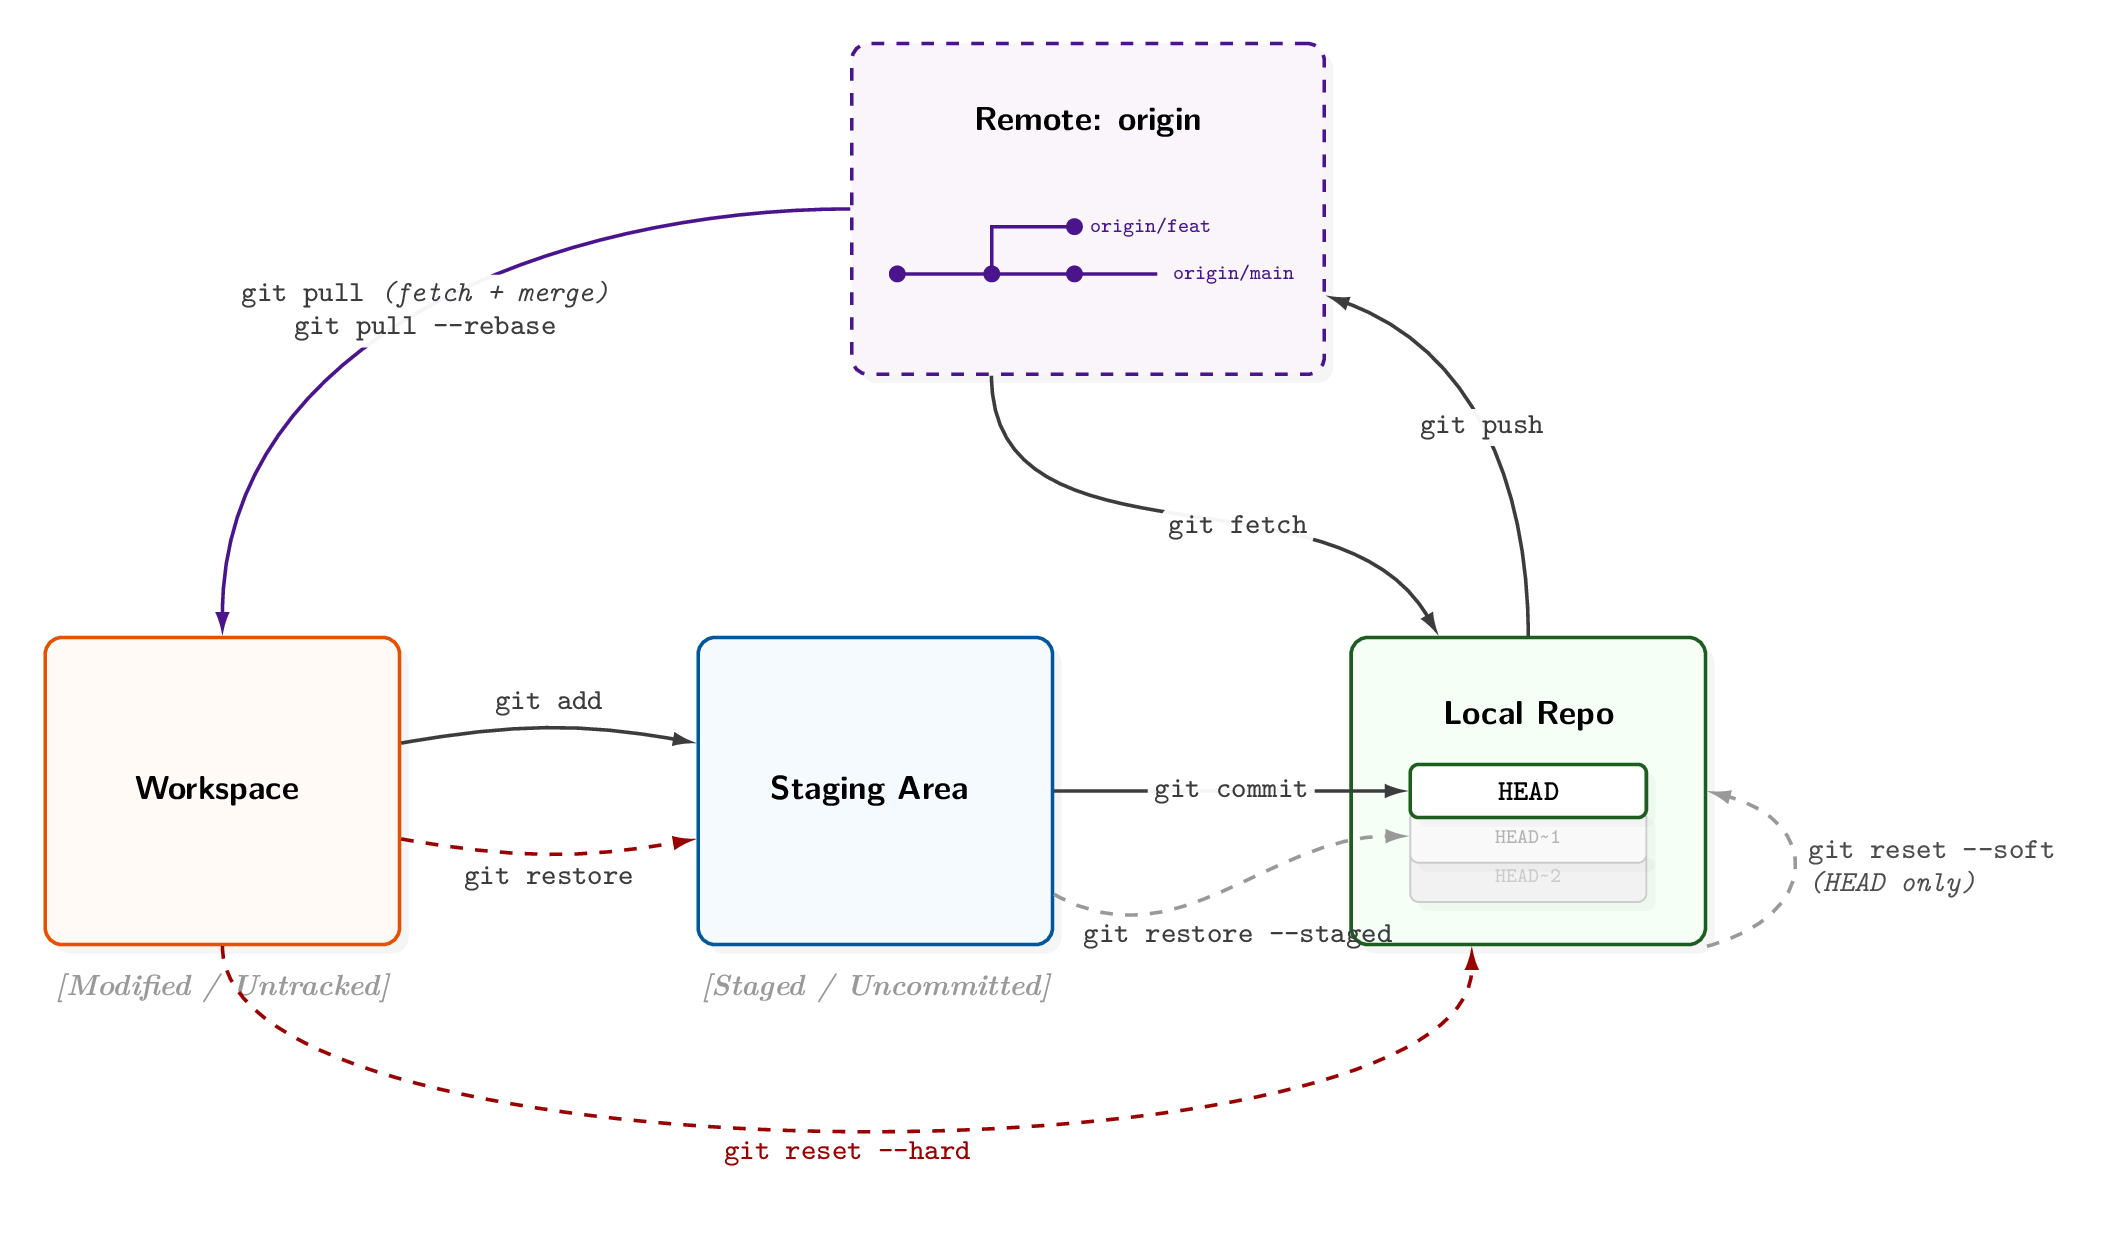
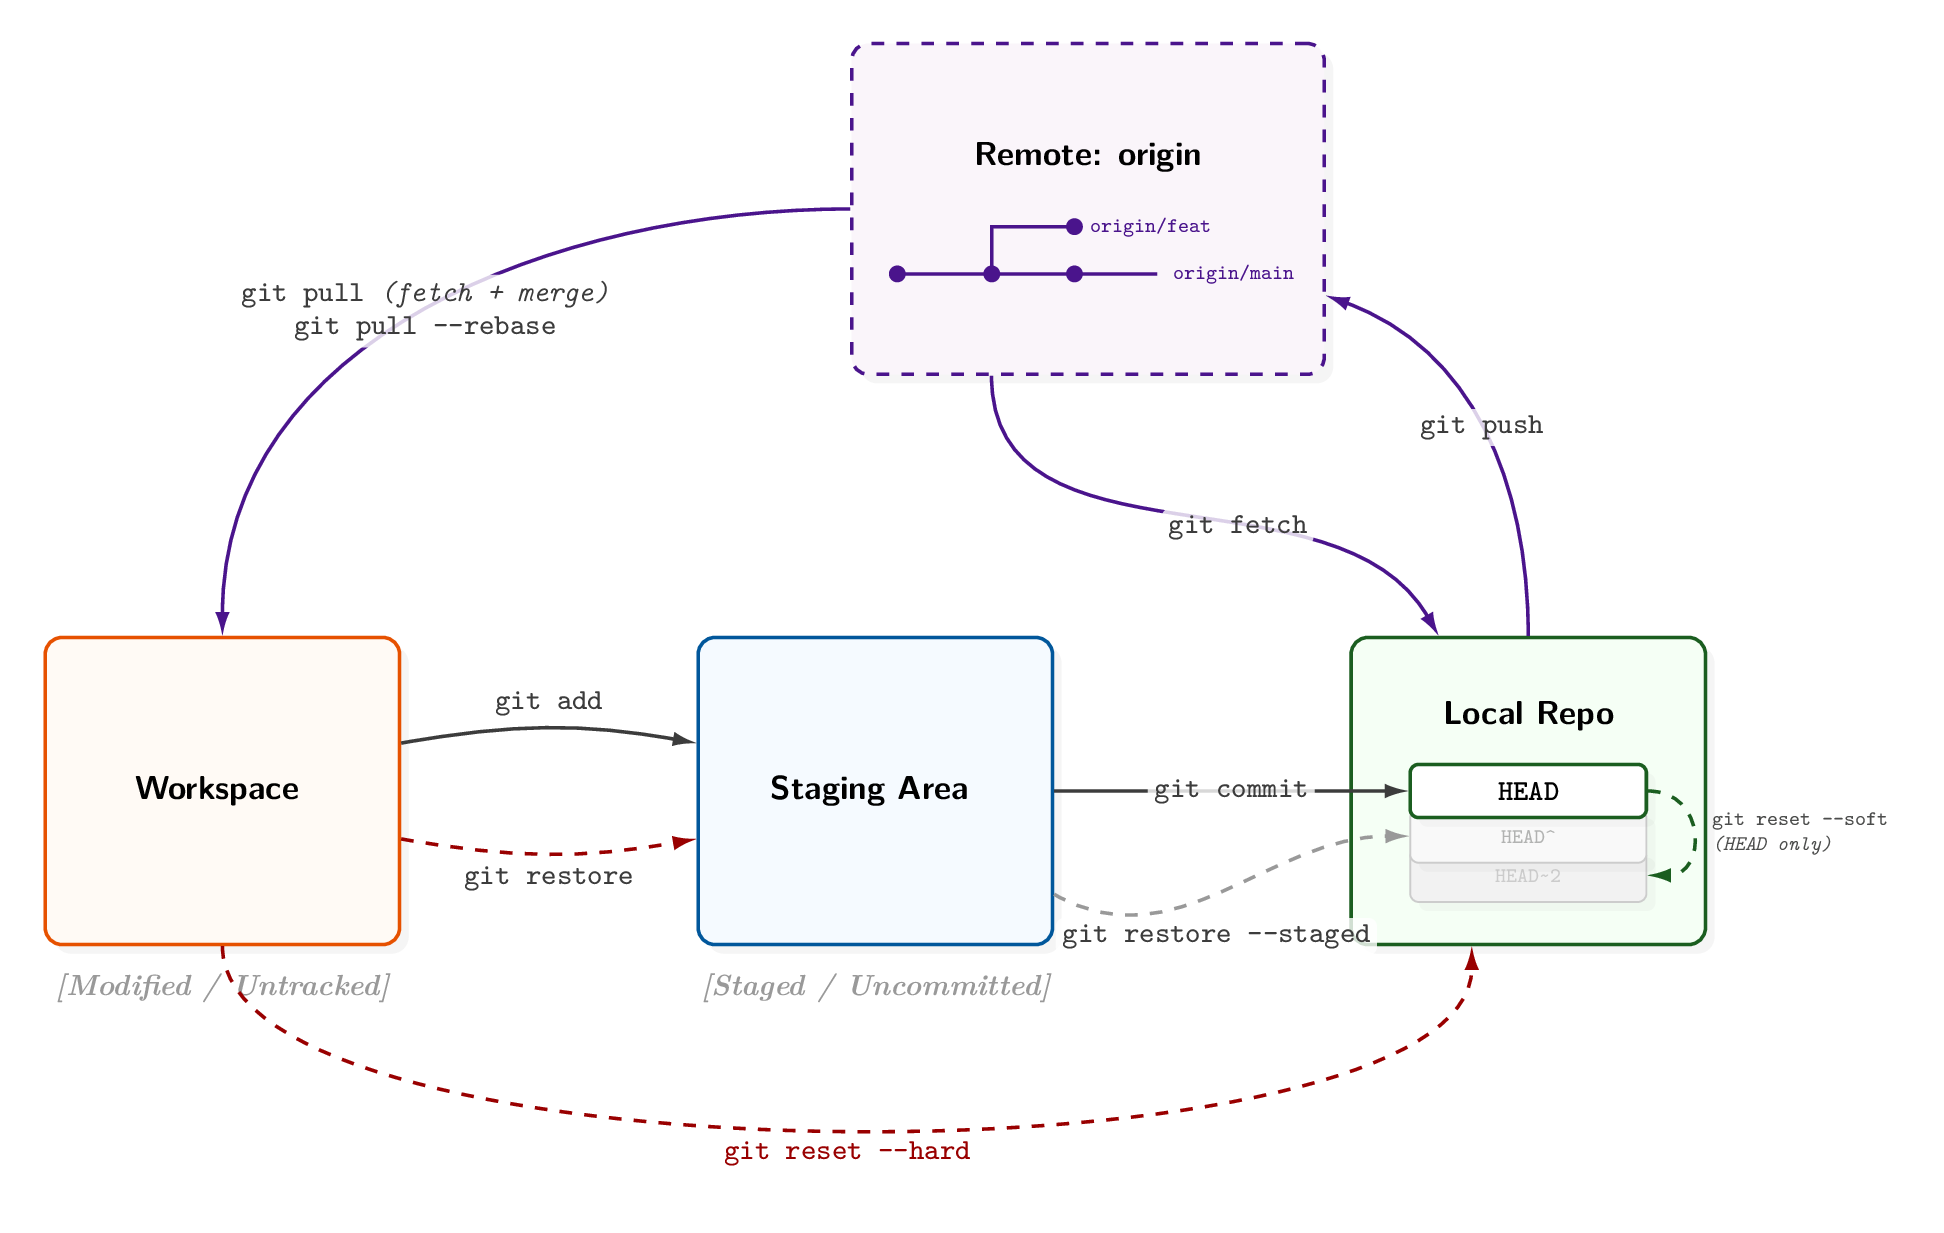
Second Version

diff --git a/github-commands/images/git_flow/git_flow.tex b/github-commands/images/git_flow/git_flow.tex
@@ -44,7 +44,6 @@
         -{Latex[length=2mm, width=1.2mm]},
         font=\scriptsize\sffamily
     },
-    % 虚线样式 (用于 Restore/Reset)
     connDashed/.style={
         conn, dashed, draw=gray!80
     },
@@ -52,126 +51,111 @@
         midway, fill=white, text=lineColor, 
         inner sep=1.5pt, rounded corners=2pt,
         align=center, font=\scriptsize\ttfamily,
-        opacity=0.95, text opacity=1
+        opacity=0.8, text opacity=1
     }
 }
 
 \begin{document}
 \begin{tikzpicture}[node distance=1.2cm and 2.5cm]
 
-    % =========================================
-    % 1. 区域定义
-    % =========================================
+	% =========================================
+	% 1. 区域定义
+	% =========================================
 
-    % Workspace
-    \node [styleWork] (work) {
-        \textbf{Workspace}
-    };
-    \node [statusLabel] at (work.south) {[Modified / Untracked]};
+	% Workspace
+	\node [styleWork] (work) {
+		\textbf{Workspace}
+	};
+	\node [statusLabel] at (work.south) {[Modified / Untracked]};
 
-    % Staging
-    \node [styleStage, right=of work] (stage) {
-        \textbf{Staging Area}
-    };
-    \node [statusLabel] at (stage.south) {[Staged / Uncommitted]};
+	% Staging
+	\node [styleStage, right=of work] (stage) {
+		\textbf{Staging Area}
+	};
+	\node [statusLabel] at (stage.south) {[Staged / Uncommitted]};
 
-    % Local Repo
-    \node [styleLocal, right=of stage] (local) {
-        \textbf{Local Repo}\\
-        \vspace{1.0cm} % Space for stack
-    };
+	% Local Repo
+	\node [styleLocal, right=of stage] (local) {
+		\textbf{Local Repo}\\
+		\vspace{1.0cm}
+	};
 
-    % Remote Repo
-    \node [styleRemote, above=2.2cm of stage, xshift=1.8cm, minimum width=4.0cm, minimum height=2.8cm] (remote) {
-        \textbf{Remote: origin} \\
-        \vspace{1.2cm} % Space for tree
-    };
+	% Remote Repo
+	\node [styleRemote, above=2.2cm of stage, xshift=1.8cm, minimum width=4.0cm, minimum height=2.8cm] (remote) {
+		\textbf{Remote: origin} \\
+		\vspace{0.6cm}
+	};
 
-    % =========================================
-    % 2. 内部结构可视化
-    % =========================================
+	% =========================================
+	% 2. 内部结构可视化
+	% =========================================
 
-    % --- Local Commit Stack ---
-    \node[card, fill=gray!10, text=gray!40] at ($(local.south) + (0, 0.6)$) (c2) {\tiny HEAD\textasciitilde 2};
-    \node[card, fill=gray!5, text=gray!60] at ($(c2.north) + (0, 0.1)$) (c1) {\tiny HEAD\textasciitilde 1};
-    \node[card, draw=cLocalDraw, thick] at ($(c1.north) + (0, 0.15)$) (c0) {\scriptsize \textbf{HEAD}};
+	% --- Local Commit Stack ---
+	\node[card, fill=gray!10, text=gray!40] at ($(local.south) + (0, 0.6)$) (c2) {\tiny HEAD\textasciitilde 2};
 
-    % --- Remote Branch Tree ---
-    \begin{scope}[shift={($(remote.west) + (0.4, -0.55)$)}]
-        % 主干
-        \draw[cRemoteDraw, thick] (0,0) -- (2.2,0) node[right, font=\tiny\ttfamily] {origin/main};
-        % 分支 feat
-        \draw[cRemoteDraw, thick] (0.8,0) -- (0.8,0.4) -- (1.5,0.4) node[right, font=\tiny\ttfamily] {origin/feat};
-        % 节点
-        \fill[cRemoteDraw] (0,0) circle(2pt);
-        \fill[cRemoteDraw] (0.8,0) circle(2pt);
-        \fill[cRemoteDraw] (1.5,0) circle(2pt);
-        \fill[cRemoteDraw] (1.5,0.4) circle(2pt);
-    \end{scope}
+	\node[card, fill=gray!5, text=gray!60] at ($(c2.north) + (0, 0.1)$) (c1) {\tiny HEAD\textasciicircum};
 
-    % =========================================
-    % 3. 核心连线 (Forward: Solid)
-    % =========================================
+	% HEAD
+	\node[card, draw=cLocalDraw, thick] at ($(c1.north) + (0, 0.15)$) (c0) {\scriptsize \textbf{HEAD}};
 
-    % [Add]: Work -> Stage
-    \draw [conn] (work.15) to[out=10, in=170]
-        node[cmdLabel, above=1pt] {git add}
-        (stage.165);
+	% --- Remote Branch Tree ---
+	\begin{scope}[shift={($(remote.west) + (0.4, -0.55)$)}]
+		\draw[cRemoteDraw, thick] (0,0) -- (2.2,0) node[right, font=\tiny\ttfamily] {origin/main};
+		\draw[cRemoteDraw, thick] (0.8,0) -- (0.8,0.4) -- (1.5,0.4) node[right, font=\tiny\ttfamily] {origin/feat};
+		\fill[cRemoteDraw] (0,0) circle(2pt);
+		\fill[cRemoteDraw] (0.8,0) circle(2pt);
+		\fill[cRemoteDraw] (1.5,0) circle(2pt);
+		\fill[cRemoteDraw] (1.5,0.4) circle(2pt);
+	\end{scope}
 
-    % [Commit]: Stage -> Local
-    \draw [conn] (stage.east) to[out=0, in=180]
-        node[cmdLabel, fill=white] {git commit}
-        (c0.west);
+	% =========================================
+	% 3. 核心连线
+	% =========================================
 
-    % [Push]: Local -> Remote
-    \draw [conn] (local.north) to[out=90, in=340]
-        node[cmdLabel, pos=0.5] {git push}
-        (remote.340);
+	% [Add]
+	\draw [conn] (work.15) to[out=10, in=170] node[cmdLabel, above=1pt] {git add} (stage.165);
 
-    % =========================================
-    % 4. 撤销/回退连线 (Backward: Dashed)
-    % =========================================
+	% [Commit]
+	\draw [conn] (stage.east) to[out=0, in=180] node[cmdLabel, fill=white, opacity=0.8] {git commit} (c0.west);
 
-    % [Restore Work]: Work -> Stage (Dashed)
-    \draw [connDashed, red!60!black] (work.345) to[out=350, in=190]
-        node[cmdLabel, below=1pt] {git restore}
-        (stage.195);
+	% [Push]
+	\draw [conn, thick, color=cRemoteDraw] (local.north) to[out=90, in=340] node[cmdLabel, pos=0.5] {git push} (remote.340);
 
-    % [Restore Staged]: Stage -> Local (Dashed)
-    \draw [connDashed] (stage.330) to[out=330, in=180]
-        node[cmdLabel, fill=none, below=6pt, xshift=5pt, align=left] {
-            git restore -{}-staged
-        }
-        (c1.west);
+	% =========================================
+	% 4. 撤销/回退连线
+	% =========================================
 
-    % [Reset Soft]: Local Self Loop
-    \path (local.south east) edge [connDashed, loop right, min distance=1cm]
-        node [right, font=\scriptsize\ttfamily, color=black!70, align=left] {
-            git reset -{}-soft\\
-            \itshape (HEAD only)
-        } (local.east);
+	% [Restore Work]
+	\draw [connDashed, red!60!black] (work.345) to[out=350, in=190] node[cmdLabel, below=1pt] {git restore} (stage.195);
 
-    % [Reset Hard]: Work -> Local (DANGER)
-    \draw [connDashed, red!60!black] (work.270) to[out=270, in=270, looseness=0.5]
-        node[cmdLabel, below=1pt, text=red!60!black] {git reset -{}-hard}
-        (local.250);
+	% [Restore Staged]
+	\draw [connDashed] (stage.330) to[out=330, in=180] node[cmdLabel, fill=white, opacity=0.8, below=6pt, xshift=-2pt, align=left] {git restore -{}-staged} (c1.west);
 
-    % =========================================
-    % 5. 远程连线
-    % =========================================
+	% [Reset Soft]: Local Internal Jump (HEAD -> HEAD~2)
+	\draw [connDashed, cLocalDraw] (c0.east) to[out=0, in=0, looseness=1.8]
+	node [right, pos=0.5, font=\tiny\ttfamily, color=black!70, align=left, xshift=1pt] {
+	git reset -{}-soft\\
+	\itshape (HEAD only)
+	} (c2.east);
 
-    % [Pull]: Remote -> Work
-    \draw [conn, thick, color=cRemoteDraw] (remote.180) to[out=180, in=90]
-        node[cmdLabel, pos=0.5] {
-            git pull \itshape (fetch + merge) \\
-            git pull --rebase
-        }
-        (work.north);
+	% [Reset Hard]: Work -> Local
+	\draw [connDashed, red!60!black] (work.270) to[out=270, in=270, looseness=0.5]
+	node[cmdLabel, below=1pt, text=red!60!black] {git reset -{}-hard}
+	(local.250);
 
-    % [Fetch]: Remote -> Local
-    \draw [conn] (remote.240) to[out=270, in=120]
-        node[cmdLabel, pos=0.6, fill=white] {git fetch}
-        (local.120);
+	% =========================================
+	% 5. 远程连线
+	% =========================================
+
+	% [Pull]
+	\draw [conn, thick, color=cRemoteDraw] (remote.180) to[out=180, in=90]
+	node[cmdLabel, pos=0.5] {
+		git pull \itshape (fetch + merge) \\
+		git pull --rebase
+	} (work.north);
+
+	% [Fetch]
+	\draw [conn, thick, color=cRemoteDraw] (remote.240) to[out=270, in=120] node[cmdLabel, pos=0.6, fill=white] {git fetch} (local.120);
 
 \end{tikzpicture}
 \end{document}

diff --git a/README.md b/README.md
@@ -1,4 +1,4 @@
-![License](https://img.shields.io/badge/License-MIT-blue.svg)
+![License](https://img.shields.io/badge/License-CC--BY%204.0-lightgrey)
 
 # Technical Notes & Practice
 
@@ -9,7 +9,7 @@
 ## Git & GitHub Commands
 
 - 📘 笔记
-  - ![notes.md](github-commands/notes.md)
+![notes.md](github-commands/notes.md)
 
 ---
 
@@ -20,16 +20,16 @@
 本部分为 Anthony Williams's *C++ Concurrency in Action 2nd* 的学习笔记，重点关注 **C++ 内存模型、同步机制、异步编程、并发设计模式** 等内容。
 
 - 📚 书
-  - ![C++ Concurrency in Action.pdf](cpp-concurrency-action/C++%20Concurrency%20in%20Action.pdf)
-  - ![C++ 并发编程实战（陈晓伟 译）.pdf](cpp-concurrency-action/C++%20并发编程实战（陈晓伟%20译）.pdf)
+[C++ Concurrency in Action.pdf](cpp-concurrency-action/C++%20Concurrency%20in%20Action.pdf)
+![C++ 并发编程实战（陈晓伟 译）.pdf](cpp-concurrency-action/C++%20并发编程实战（陈晓伟%20译）.pdf)
 - 📘 笔记
-  - ![notes.md](cpp-concurrency-action/notes.md)
+![notes.md](cpp-concurrency-action/notes.md)
 - 🧪 代码 
-  - ![02_thread_management/](02_thread_management)
-  - ![03_sharing_data/](03_sharing_data)
-  - ![04_synchronization/](04_synchronization)
-  - ![05_memory_model_and_atomics/](05_memory_model_and_atomics)
-  - ![06_lock_based_concurrent_data_structures/](06_lock_based_concurrent_data_structures)
-  - ![07_lock_free_concurrent_data_structures/](07_lock_free_concurrent_data_structures)
+![02_thread_management/](cpp-concurrency-action/scripts/02_thread_management)
+![03_sharing_data/](cpp-concurrency-action/scripts/03_sharing_data)
+![04_synchronization/](cpp-concurrency-action/scripts/04_synchronization)
+![05_memory_model_and_atomics/](cpp-concurrency-action/scripts/05_memory_model_and_atomics)
+![06_lock_based_concurrent_data_structures/](cpp-concurrency-action/scripts/06_lock_based_concurrent_data_structures)
+![07_lock_free_concurrent_data_structures/](cpp-concurrency-action/scripts/07_lock_free_concurrent_data_structures)
 
 ---
